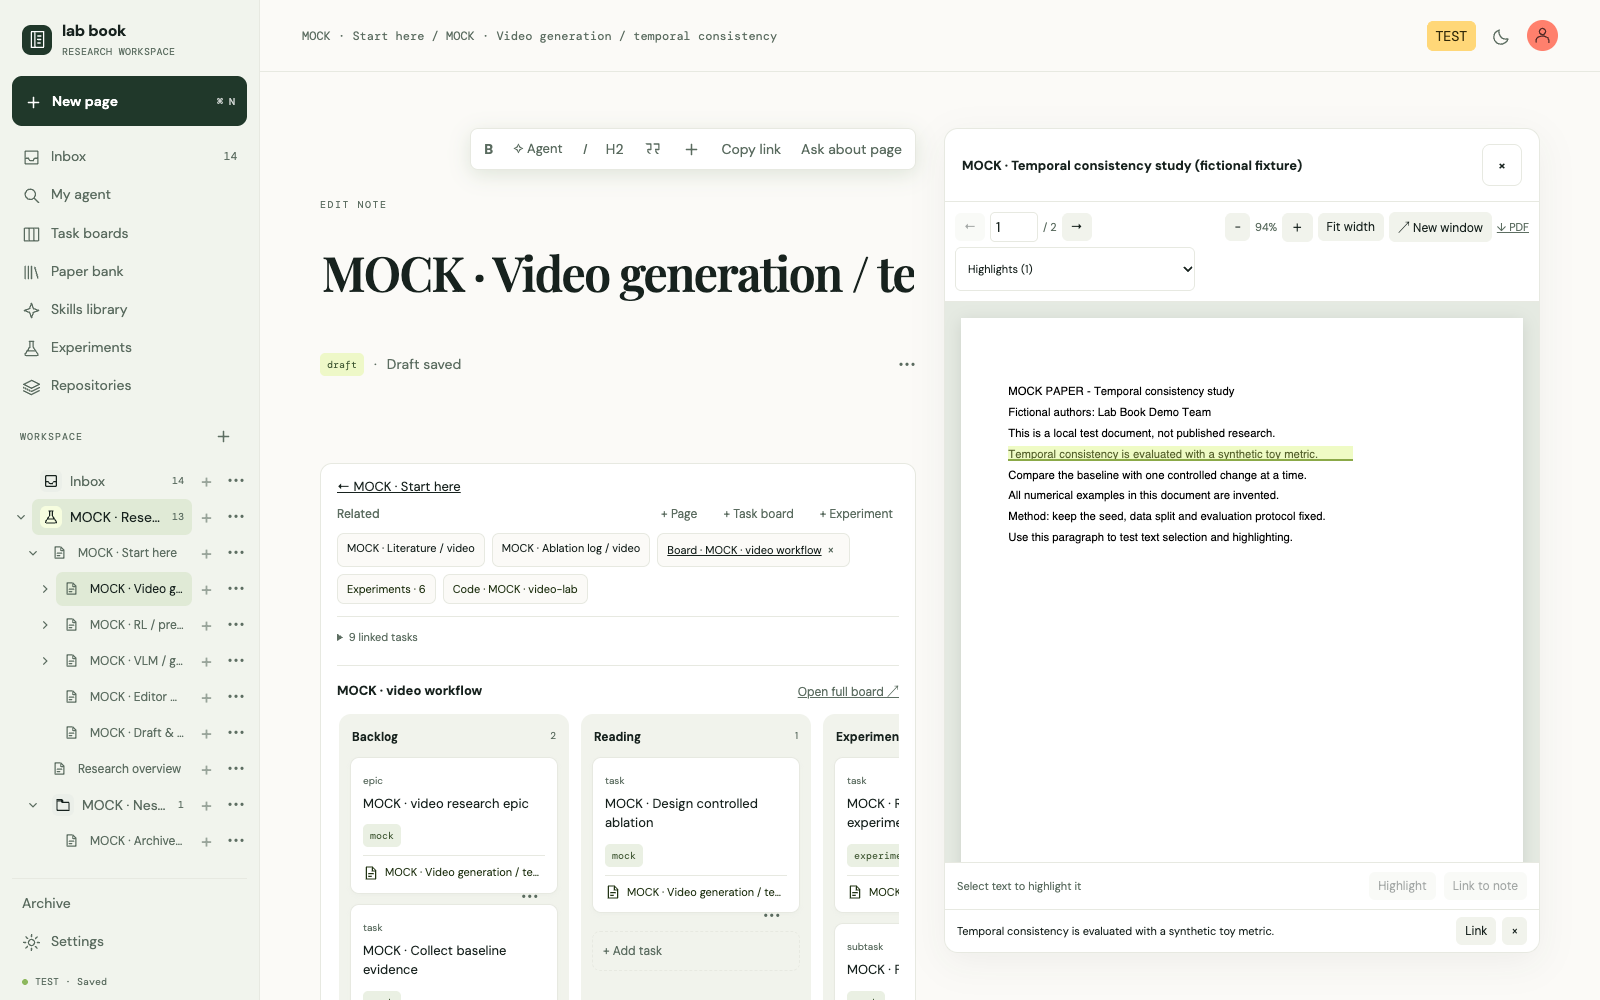
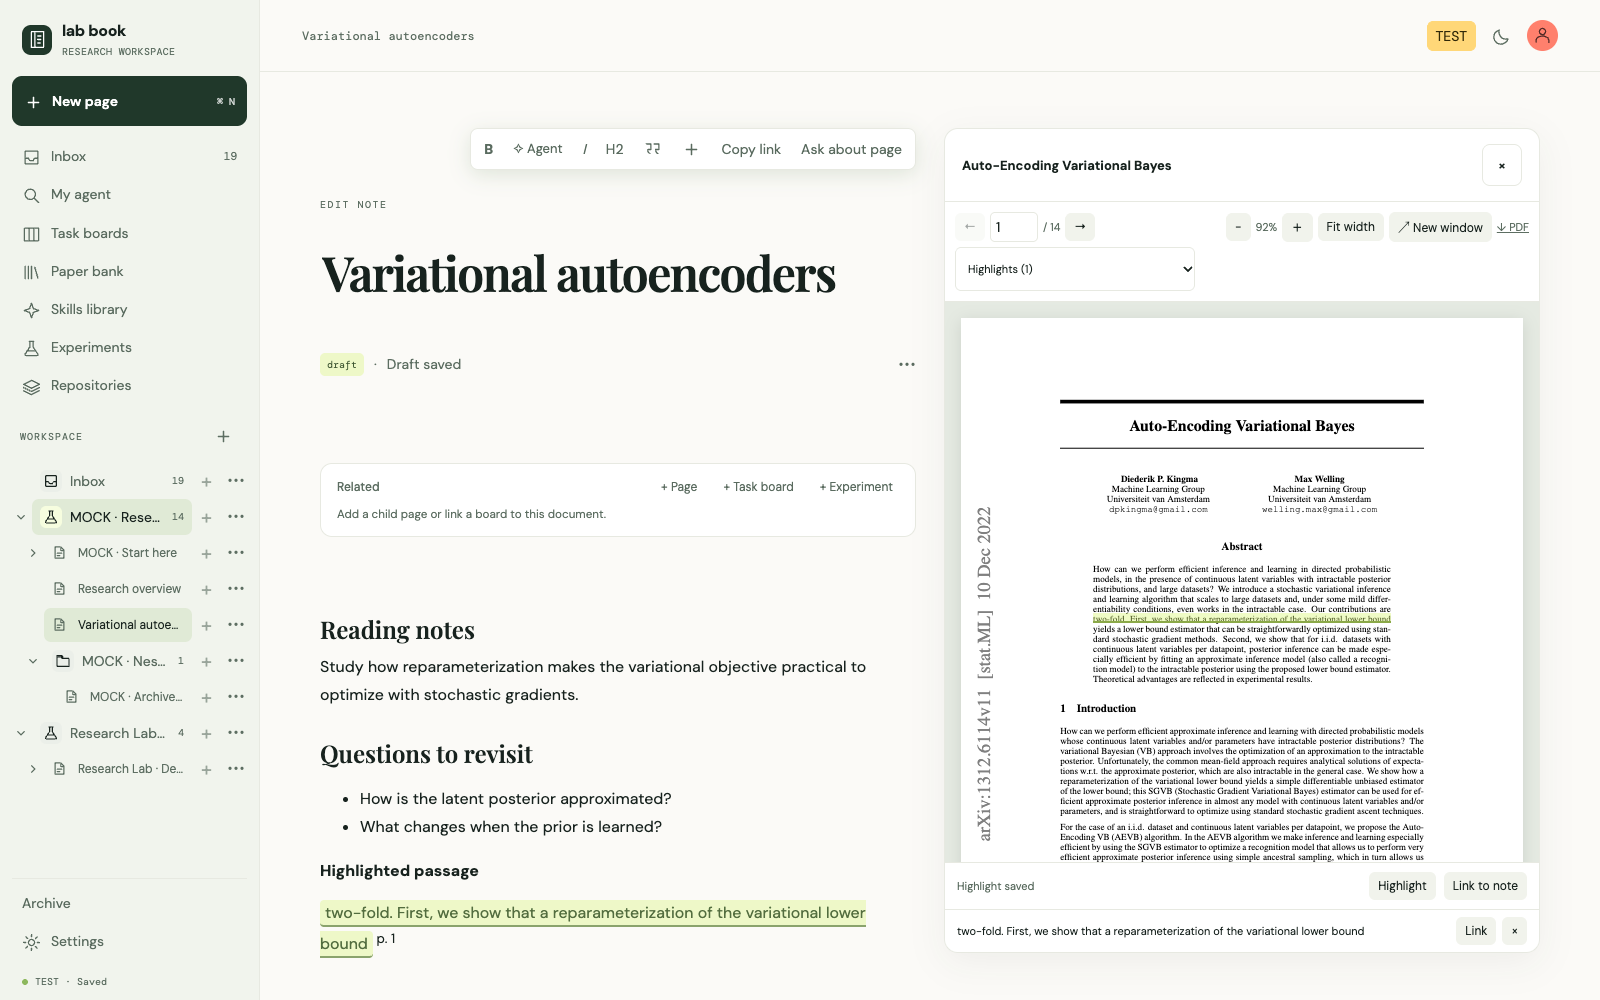
Show real paper annotations and allow deleting chats

diff --git a/src/client/my-agent.js b/src/client/my-agent.js
@@ -9,6 +9,17 @@
  function snapshot(){const chat=active();if(!chat||renderedChatId!==chat.id)return;chat.context=structuredClone(state.context||[]);chat.skillId=document.querySelector('#activeSkill')?.value||'';chat.webSearch=!!document.querySelector('#includeWeb')?.checked}
  function switchChat(id){snapshot();state.activeAgentChatId=id;const chat=active();state.context=structuredClone(chat.context||[]);store();renderSearch();const picker=document.querySelector('#activeSkill');if(picker){picker.value=chat.skillId||'';picker.dispatchEvent(new Event('change'))}document.querySelector('#includeWeb').checked=!!chat.webSearch;renderContextUI()}
  window.startPageConversation=function(note,version=note){if(!flushDraft())return;snapshot();const text=noteBlocks(version).join('\n\n');if(!text.trim()){toast('This page has no text to use as context');return}const chat=newChat([{type:'note',key:'note:'+note.id+':snapshot',noteId:note.id,label:version.title||note.title,text,snapshot:true,detail:'Page content at conversation start'}]);chat.title='Ask · '+(version.title||note.title);chat.webSearch=true;store();currentView='search';renderSearch();document.querySelector('#contextQuestion')?.focus()};
+ function deleteChat(chat){
+  if(busy.has(chat.id)||window.agentSubmittingChats.has(chat.id))return toast('Stop the current response before deleting this chat.');
+  if(!confirm('Delete this conversation? This cannot be undone.'))return;
+  const previousChats=state.agentChats,previousContext=state.context;
+  const remaining=previousChats.filter(item=>item.id!==chat.id);
+  const next=remaining.at(-1)||{id:crypto.randomUUID(),title:'New chat',messages:[],context:[],skillId:'',webSearch:false};
+  state.agentChats=remaining.length?remaining:[next];state.activeAgentChatId=next.id;
+  state.context=structuredClone(next.context||[]);
+  try{store()}catch(error){state.agentChats=previousChats;state.activeAgentChatId=chat.id;state.context=previousContext;toast('Could not delete conversation');return}
+  drafts.delete(chat.id);renderedChatId=null;renderSearch();document.querySelector('#contextQuestion')?.focus();
+ }
  function safeMarkdown(text){return RichText.render(text)}
  function syncSendState(){const chat=active(),send=document.querySelector('#askContext');if(!send||!chat)return;const pending=busy.has(chat.id)||window.agentSubmittingChats.has(chat.id);send.disabled=pending;send.textContent=pending?'Working…':'Send';send.setAttribute('aria-busy',String(pending));send.title=pending?'Wait for the current response before sending another message':'Send message'}
  window.syncAgentSendState=syncSendState;
@@ -63,7 +74,9 @@
   for(const item of prepared.created.filter(a=>a.kind==='page')){const note=next.notes.find(n=>n.id===item.id),documentBody=document.createElement('div');documentBody.innerHTML=note.content;documentBody.querySelectorAll('.note-math[data-latex]').forEach(node=>node.replaceChildren());for(const block of documentBody.children)if(!block.dataset.labBlockId)block.dataset.labBlockId=crypto.randomUUID();note.content=documentBody.innerHTML;note.blocks=[...documentBody.children].map((block,index)=>({id:block.dataset.labBlockId,html:block.outerHTML,order:index}));note.desc=documentBody.textContent.trim().slice(0,180);const version={title:note.title,content:note.content,blocks:structuredClone(note.blocks),desc:note.desc,savedAt:new Date().toISOString()};note.published=structuredClone(version);note.versions=[...(note.versions||[]),version];note.draft=false;note.tag='published';note.updatedAt=version.savedAt}
   ResearchModel.validate(next);if(JSON.stringify(state)!==before)throw Error('The workspace changed while preparing the proposal. Review it and retry');const target=next.agentChats.find(c=>c.id===chatId).messages.find(m=>m.id===messageId);target.appliedIds=[...(target.appliedIds||[]),...chosen];target.proposalCollapsed=true;target.appliedAt=new Date().toISOString();target.pendingReferenceCount=prepared.created.filter(a=>a.kind==='page').reduce((total,a)=>total+(next.notes.find(n=>n.id===a.id)?.pendingPaperReferences||[]).length,0);target.entityIds=prepared.entityIds;target.savedLinks=[...(target.savedLinks||[]),...prepared.created.filter(a=>a.collection).map(a=>({kind:a.kind,id:a.id,href:a.kind==='task'?'/boards/'+encodeURIComponent(next.tasks.find(t=>t.id===a.id).board):null}))];const previous=state;state=next;try{store()}catch(error){state=previous;throw error}for(const item of prepared.created)if(item.kind==='page'){const note=state.notes.find(n=>n.id===item.id);if(note)revealWorkspaceNote(note)}try{localStorage.setItem(workspaceTreeKey,JSON.stringify(workspaceTreeCollapsed))}catch{}
  }
- const renderBefore=renderSearch;renderSearch=function(){const previousInput=document.querySelector('.search-page #contextQuestion');if(previousInput&&renderedChatId)drafts.set(renderedChatId,previousInput.value);composerObserver?.disconnect();const chat=current();state.context=structuredClone(chat.context||state.context||[]);const value=renderBefore();const page=document.querySelector('.search-page');if(!page)return value;page.querySelector('.page-title').textContent='My agent';page.querySelector('.page-subtitle').textContent='Ask, explore ideas, draft pages and organize your research. Review every workspace change before applying it.';page.querySelector('.eyebrow').textContent='YOUR RESEARCH COLLABORATOR';const tabs=document.createElement('nav');tabs.className='agent-tabs';tabs.setAttribute('aria-label','Conversations');for(const c of chats()){const b=document.createElement('button');b.dataset.chatId=c.id;b.className='btn ghost';b.textContent=c.title;b.title=c.title;b.setAttribute('aria-pressed',String(c.id===chat.id));b.onclick=()=>switchChat(c.id);tabs.append(b)}const create=document.createElement('button');create.className='btn ghost agent-new-chat';create.textContent='+ New chat';create.onclick=()=>{snapshot();newChat();renderSearch()};tabs.append(create);const layout=document.createElement('div');layout.className='agent-layout';const thread=document.createElement('div');thread.className='agent-thread';tabs.id='agentConversationTabs';const tools=document.createElement('div');tools.className='agent-view-tools';const toggle=document.createElement('button');toggle.id='toggleAgentTabs';toggle.className='btn ghost';toggle.setAttribute('aria-controls',tabs.id);let hidden=false;try{hidden=localStorage.getItem('labbook-agent-tabs-hidden')==='true'}catch{}const updateTabs=()=>{tabs.hidden=hidden;layout.classList.toggle('tabs-hidden',hidden);toggle.innerHTML=hidden?'<svg viewBox="0 0 20 20" aria-hidden="true"><path d="m7 4 6 6-6 6"/></svg>':'<svg viewBox="0 0 20 20" aria-hidden="true"><path d="m13 4-6 6 6 6"/></svg>';toggle.title=hidden?'Show conversations':'Hide conversations';toggle.setAttribute('aria-label',toggle.title);toggle.setAttribute('aria-expanded',String(!hidden))};toggle.onclick=()=>{hidden=!hidden;try{localStorage.setItem('labbook-agent-tabs-hidden',String(hidden))}catch{}updateTabs()};updateTabs();const rail=document.createElement('aside');rail.className='agent-history';const label=document.createElement('span');label.textContent='Conversations';tools.append(label,toggle);rail.append(tools,tabs);layout.append(rail,thread);page.querySelector('.page-subtitle').after(layout);for(const child of [...page.children])if(child!==layout&&!child.matches('.eyebrow,.page-title,.page-subtitle,.agent-view-tools'))thread.append(child);const legacySearch=page.querySelector('.search-box');legacySearch.hidden=true;legacySearch.style.display='none';legacySearch.querySelector('#searchBtn')?.remove();document.querySelector('#askContext').textContent='Send';const oldInput=document.querySelector('#contextQuestion');let input=oldInput;if(oldInput.tagName!=='TEXTAREA'){input=document.createElement('textarea');input.id='contextQuestion';input.rows=3;input.value=oldInput.value;input.setAttribute('aria-label','Message My agent');oldInput.replaceWith(input);input.onkeydown=e=>{if(e.key==='Enter'&&!e.shiftKey&&!e.isComposing&&e.keyCode!==229){e.preventDefault();document.querySelector('#askContext').click()}}}input.value=drafts.get(chat.id)||'';input.addEventListener('input',()=>drafts.set(chat.id,input.value));input.placeholder='Ask a question, describe an idea, or tell me what to add…';const grow=()=>{const limit=Math.max(120,Math.min(420,innerHeight*.5));input.style.height='auto';const height=Math.min(limit,Math.max(85,input.scrollHeight+2));input.style.height=height+'px';input.style.overflowY=input.scrollHeight>limit?'auto':'hidden'};input.addEventListener('input',grow);let previousWidth=0;composerObserver=new ResizeObserver(entries=>{const width=entries[0].contentRect.width;if(width!==previousWidth){previousWidth=width;grow()}});composerObserver.observe(input.parentElement);requestAnimationFrame(grow);const result=document.querySelector('#results');thread.querySelector('.context-panel').before(result);renderedChatId=chat.id;const picker=document.querySelector('#activeSkill');if(picker){picker.value=chat.skillId||'';picker.dispatchEvent(new Event('change'))}document.querySelector('#includeWeb').checked=!!chat.webSearch;renderMessages();return value};
+ const renderBefore=renderSearch;renderSearch=function(){const previousInput=document.querySelector('.search-page #contextQuestion');if(previousInput&&renderedChatId)drafts.set(renderedChatId,previousInput.value);composerObserver?.disconnect();const chat=current();state.context=structuredClone(chat.context||state.context||[]);const value=renderBefore();const page=document.querySelector('.search-page');if(!page)return value;page.querySelector('.page-title').textContent='My agent';page.querySelector('.page-subtitle').textContent='Ask, explore ideas, draft pages and organize your research. Review every workspace change before applying it.';page.querySelector('.eyebrow').textContent='YOUR RESEARCH COLLABORATOR';const tabs=document.createElement('nav');tabs.className='agent-tabs';tabs.setAttribute('aria-label','Conversations');for(const c of chats()){const b=document.createElement('button');b.dataset.chatId=c.id;b.className='btn ghost';b.textContent=c.title;b.title=c.title;b.setAttribute('aria-pressed',String(c.id===chat.id));b.onclick=()=>switchChat(c.id);tabs.append(b)}const create=document.createElement('button');create.className='btn ghost agent-new-chat';create.textContent='+ New chat';create.onclick=()=>{snapshot();newChat();renderSearch()};tabs.append(create);const layout=document.createElement('div');layout.className='agent-layout';const thread=document.createElement('div');thread.className='agent-thread';tabs.id='agentConversationTabs';const tools=document.createElement('div');tools.className='agent-view-tools';const toggle=document.createElement('button');toggle.id='toggleAgentTabs';toggle.className='btn ghost';toggle.setAttribute('aria-controls',tabs.id);let hidden=false;try{hidden=localStorage.getItem('labbook-agent-tabs-hidden')==='true'}catch{}const updateTabs=()=>{tabs.hidden=hidden;layout.classList.toggle('tabs-hidden',hidden);toggle.innerHTML=hidden?'<svg viewBox="0 0 20 20" aria-hidden="true"><path d="m7 4 6 6-6 6"/></svg>':'<svg viewBox="0 0 20 20" aria-hidden="true"><path d="m13 4-6 6 6 6"/></svg>';toggle.title=hidden?'Show conversations':'Hide conversations';toggle.setAttribute('aria-label',toggle.title);toggle.setAttribute('aria-expanded',String(!hidden))};toggle.onclick=()=>{hidden=!hidden;try{localStorage.setItem('labbook-agent-tabs-hidden',String(hidden))}catch{}updateTabs()};updateTabs();const rail=document.createElement('aside');rail.className='agent-history';const label=document.createElement('span');label.textContent='Conversations';const remove=document.createElement('button');remove.type='button';remove.className='text-btn agent-delete';
+remove.textContent='Delete chat';remove.onclick=()=>deleteChat(chat);
+tools.append(label,toggle);rail.append(tools,tabs);thread.prepend(remove);layout.append(rail,thread);page.querySelector('.page-subtitle').after(layout);for(const child of [...page.children])if(child!==layout&&!child.matches('.eyebrow,.page-title,.page-subtitle,.agent-view-tools'))thread.append(child);const legacySearch=page.querySelector('.search-box');legacySearch.hidden=true;legacySearch.style.display='none';legacySearch.querySelector('#searchBtn')?.remove();document.querySelector('#askContext').textContent='Send';const oldInput=document.querySelector('#contextQuestion');let input=oldInput;if(oldInput.tagName!=='TEXTAREA'){input=document.createElement('textarea');input.id='contextQuestion';input.rows=3;input.value=oldInput.value;input.setAttribute('aria-label','Message My agent');oldInput.replaceWith(input);input.onkeydown=e=>{if(e.key==='Enter'&&!e.shiftKey&&!e.isComposing&&e.keyCode!==229){e.preventDefault();document.querySelector('#askContext').click()}}}input.value=drafts.get(chat.id)||'';input.addEventListener('input',()=>drafts.set(chat.id,input.value));input.placeholder='Ask a question, describe an idea, or tell me what to add…';const grow=()=>{const limit=Math.max(120,Math.min(420,innerHeight*.5));input.style.height='auto';const height=Math.min(limit,Math.max(85,input.scrollHeight+2));input.style.height=height+'px';input.style.overflowY=input.scrollHeight>limit?'auto':'hidden'};input.addEventListener('input',grow);let previousWidth=0;composerObserver=new ResizeObserver(entries=>{const width=entries[0].contentRect.width;if(width!==previousWidth){previousWidth=width;grow()}});composerObserver.observe(input.parentElement);requestAnimationFrame(grow);const result=document.querySelector('#results');thread.querySelector('.context-panel').before(result);renderedChatId=chat.id;const picker=document.querySelector('#activeSkill');if(picker){picker.value=chat.skillId||'';picker.dispatchEvent(new Event('change'))}document.querySelector('#includeWeb').checked=!!chat.webSearch;renderMessages();return value};
  proxySearch=async function(){const question=document.querySelector('#searchInput').value.trim();if(!question)return;const chat=current(),chatId=chat.id;if(busy.has(chatId))return;const controller=new AbortController();busy.set(chatId,controller);syncSendState();try{snapshot();chat.messages.push({id:crypto.randomUUID(),role:'user',text:question});if(chat.title==='New chat')chat.title=question.slice(0,45);store();const composer=document.querySelector('#contextQuestion');if(composer){composer.value='';composer.dispatchEvent(new Event('input'))}renderMessages();const skill=skills.find(s=>s[0]===chat.skillId);const context=await resolveResearchContext();controller.signal.throwIfAborted();const response=await fetch('/api/search',{signal:controller.signal,method:'POST',headers:{'Content-Type':'application/json'},body:JSON.stringify({query:question,context,skill:skill?.[5]||skill?.[4]||'',skillId:skill?.[0]||'',skillCustom:!!skill?.[6],webSearch:chat.webSearch,proposeChanges:true,detailedPages:true,conversation:chat.messages.filter(m=>!m.error).slice(0,-1).map(m=>({role:m.role,text:m.text}))})});const data=await response.json();controller.signal.throwIfAborted();if(!response.ok)throw Error(data.error?.message||data.error||'Agent request failed');const plan=data.workspaceProposal;const text=plan?.answer||data.output_text||data.output?.flatMap(o=>o.content||[]).map(c=>c.text||'').join('\n');const target=chats().find(c=>c.id===chatId);target.messages.push({id:crypto.randomUUID(),role:'assistant',text:text||'No answer returned.',proposal:plan||null});store();}catch(error){chats().find(c=>c.id===chatId).messages.push({id:crypto.randomUUID(),role:'assistant',text:controller.signal.aborted?'Response stopped.':error.message,error:true});try{store()}catch{}if(!controller.signal.aborted&&state.activeAgentChatId===chatId){const input=document.querySelector('#contextQuestion');if(input&&!input.value){input.value=question;input.dispatchEvent(new Event('input'))}}}finally{busy.delete(chatId);if(state.activeAgentChatId===chatId)renderMessages()}};
  const saveBefore=save;save=function(){if(currentView==='search')snapshot();return saveBefore()};
  const nav=document.querySelector('[data-view="search"]');if(nav){const span=nav.querySelector('span');nav.replaceChildren(...(span?[span]:[]),document.createTextNode(' My agent'))}

diff --git a/README.md b/README.md
@@ -21,7 +21,7 @@ A local research workspace that connects papers, annotated PDFs, nested notes, t
 
 ## See the workflow
 
-These are screenshots of the real app using fictional demo data. Scores, papers, machines and repository branches shown here are examples, not measured research results.
+These are screenshots of the real app using fictional demo data. Scores, machines and repository branches are fictional. The PDF annotation screenshot uses a published paper.
 
 ![Research workspace with linked pages and a clickable architecture diagram](docs/images/screenshots/research-workspace.png)
 
@@ -35,7 +35,7 @@ These are screenshots of the real app using fictional demo data. Scores, papers,
 
 [![PDF reader beside an editable research page, with a highlighted passage](docs/images/screenshots/paper-annotations.png)](docs/images/screenshots/paper-annotations.png)
 
-Open a paper beside your draft, highlight a passage and link that evidence back to a note.
+Open a paper beside your draft, highlight a passage and link it back to a note. Shown here: [Auto-Encoding Variational Bayes](https://arxiv.org/abs/1312.6114v11) by Diederik P. Kingma and Max Welling.
 
 </td>
 <td width="50%">

diff --git a/docs/screenshots.md b/docs/screenshots.md
@@ -13,6 +13,6 @@ Images are saved in `docs/images/screenshots/`:
 | `repository-branches.png` | Branch relationships and run metadata in dark theme |
 | `environment-switching.png` | Registered destinations and the new environment form |
 
-All papers, scores, repositories, machines and runs in these screenshots are fictional. Demo notes are published only inside the temporary capture workspace so readers can see their contents. The environment form is filled for illustration and is not submitted. Screenshot text and README captions are in English.
+Scores, repositories, machines and runs are fictional. The annotation capture downloads [Auto-Encoding Variational Bayes](https://arxiv.org/abs/1312.6114v11) into its temporary workspace and links a highlighted passage to a note. Demo notes are published only inside the temporary capture workspace so readers can see their contents. The environment form is filled for illustration and is not submitted. Screenshot text and README captions are in English.
 
 After changing the UI, regenerate the images, inspect each one and commit the relevant PNG files with the documentation changes.
